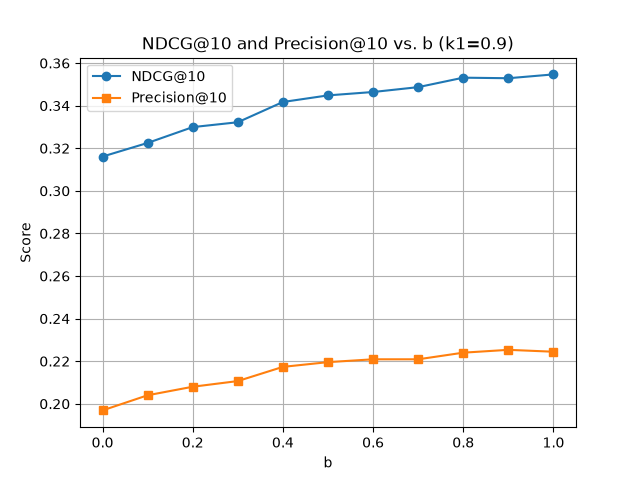
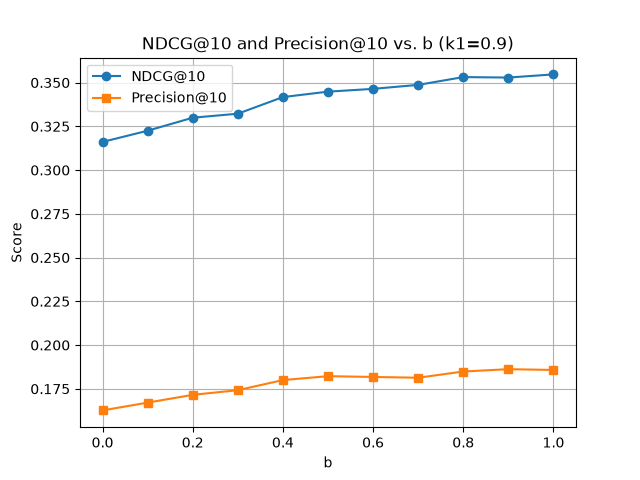
fixed cutoff param

diff --git a/main.py b/main.py
@@ -99,7 +99,7 @@ def compute_precision(results, qrels, k=10, precision_cutoff=0):
         # We sort query_results[(docid, score)] by the score, descending
         query_results_sorted = sorted(query_results, key=lambda x: x[1], reverse=True)
         relevances_current = [qrels[qid].get(docid, 0) for docid, _ in query_results_sorted[:k]]
-        num_relevant = sum(1 for rel in relevances_current if rel > 0)
+        num_relevant = sum(1 for rel in relevances_current if rel > precision_cutoff)
         precision_scores.append(num_relevant / k)
 
     if not precision_scores:

diff --git a/task1_bm25_sweep.py b/task1_bm25_sweep.py
@@ -15,7 +15,7 @@ def bm25_sweep():
     k1_fixed = 0.9 # Pyserini default
     b_fixed = 0.4 # Pyserini default
 
-    precision_cutoff = 2 # Pyserini default
+    precision_cutoff = 1 # Pyserini default
 
     def test_a():
         print(f"Starting Test A: b with k1 set to any fixed value")
